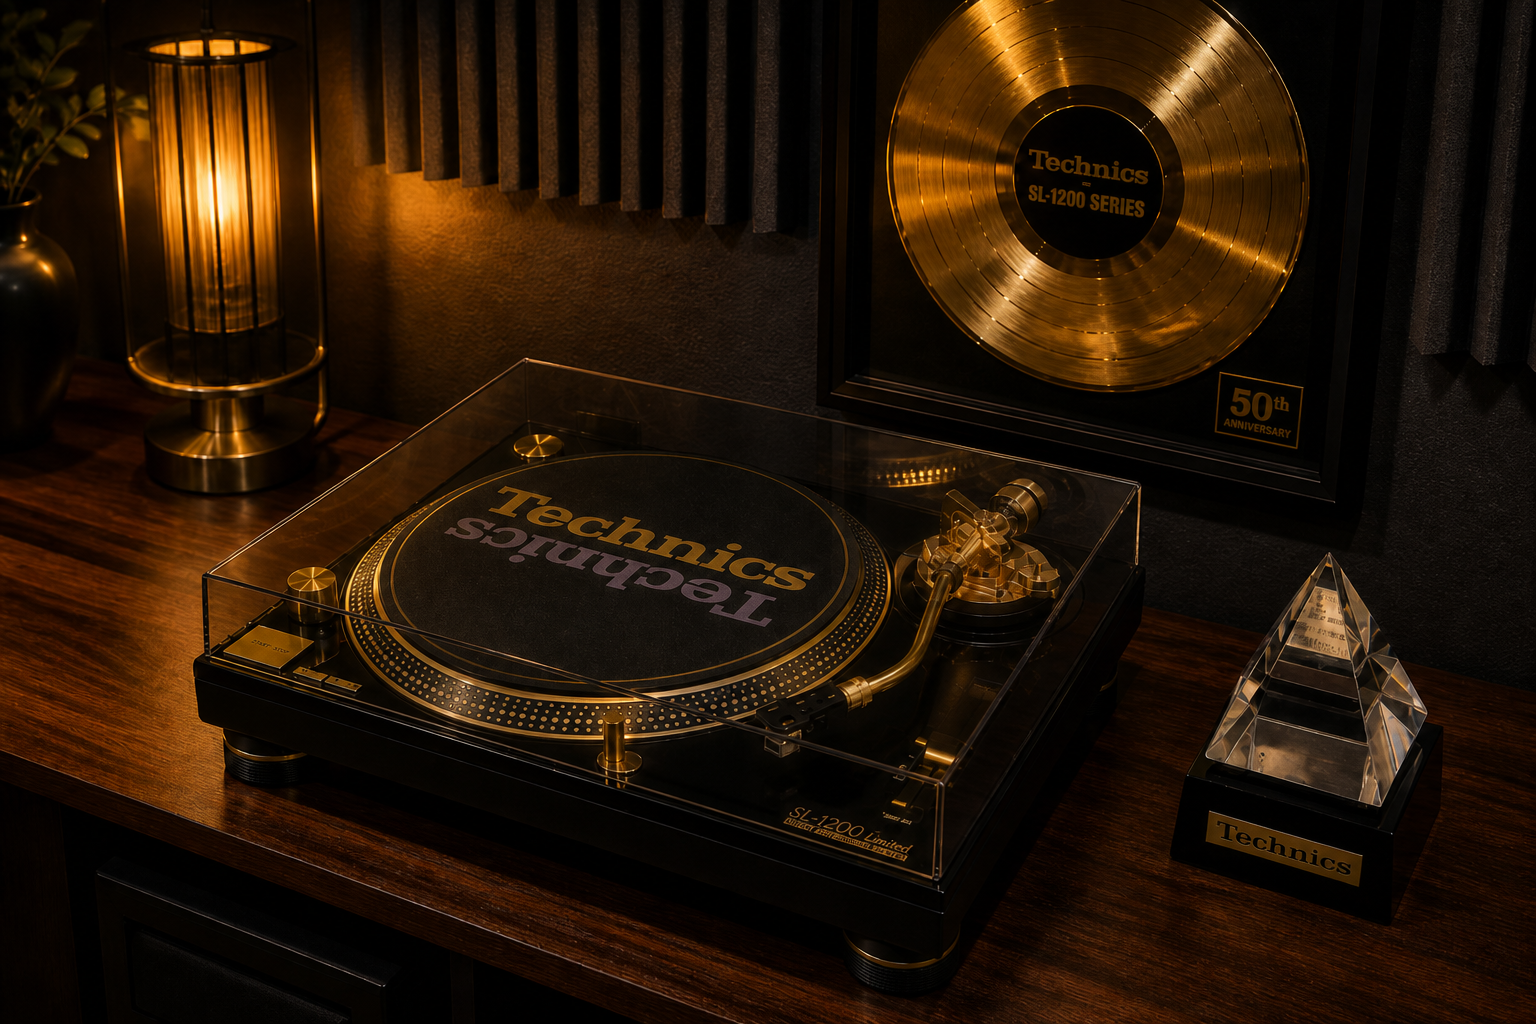
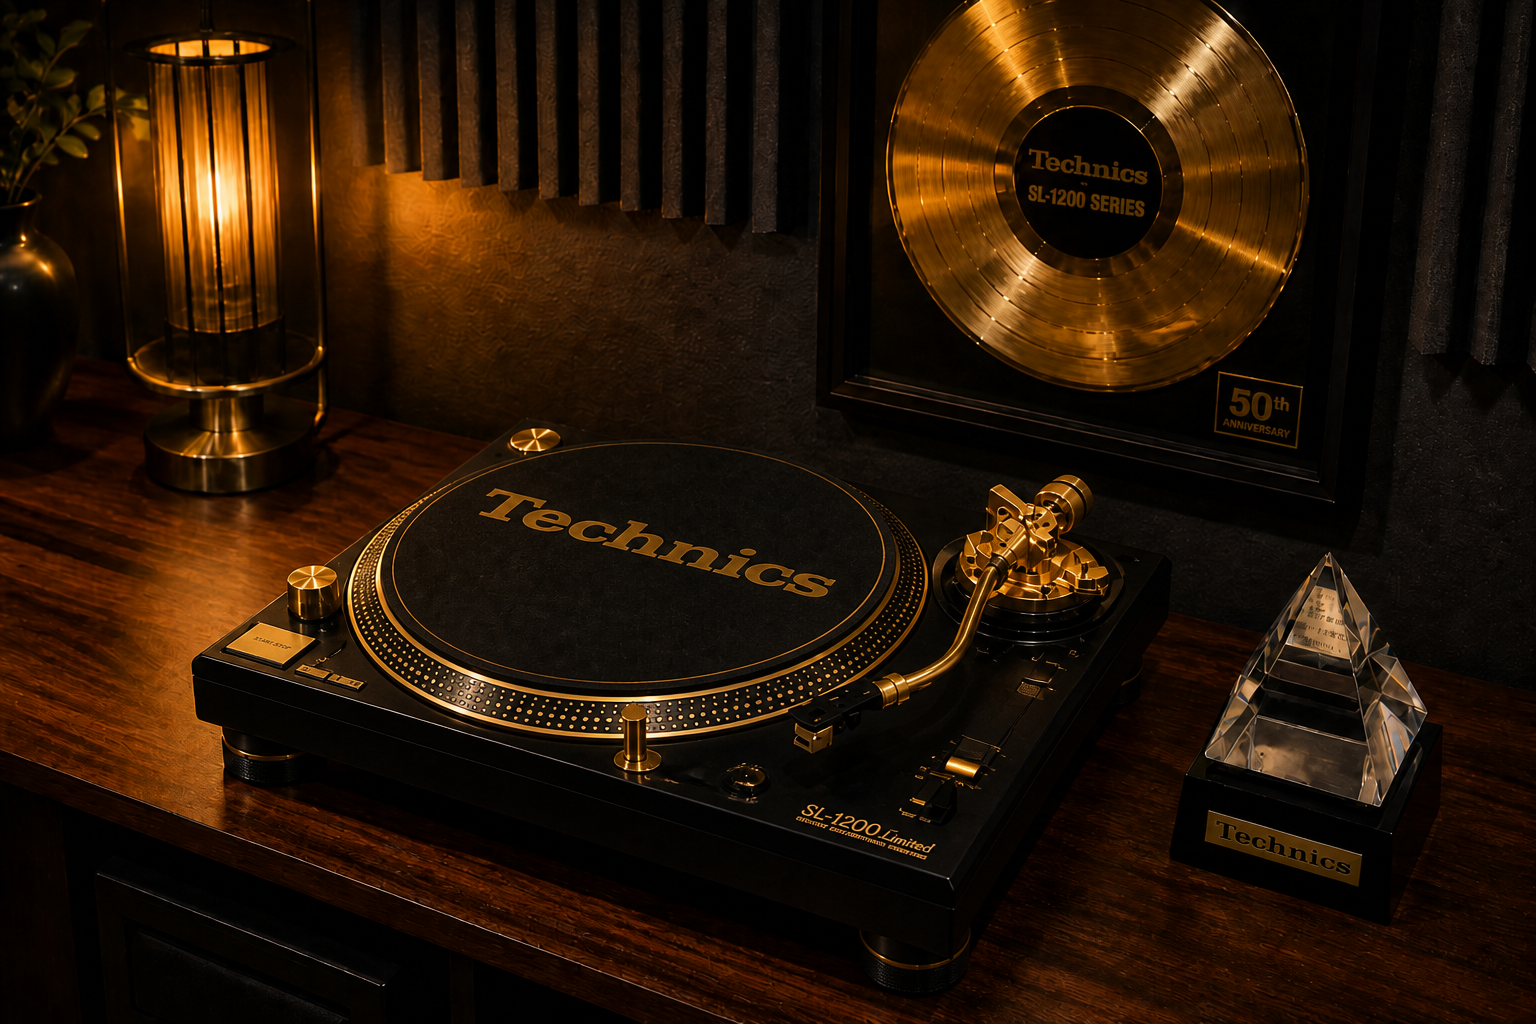
Remove dust cover from Cindy Technics deck so vinyl sits on platter.
Open-platter deck photo plus retuned overlay position/perspective.

diff --git a/jukebox/static/style.css b/jukebox/static/style.css
@@ -123,12 +123,12 @@ body {
 /* Live spinning disc — centred on the Technics platter, matched to camera angle */
 .platter-live {
   position: absolute;
-  left: 56.5%;
-  top: 53.5%;
-  width: 31%;
+  left: 48.8%;
+  top: 53.8%;
+  width: 34%;
   aspect-ratio: 1;
   border-radius: 50%;
-  transform: translate(-50%, -50%) rotateX(56deg) rotateZ(-1deg);
+  transform: translate(-50%, -50%) rotateX(48deg) rotateZ(-2deg);
   transform-style: preserve-3d;
   background:
     repeating-radial-gradient(circle at center,
@@ -145,8 +145,8 @@ body {
   animation: platter-spin 3.1s linear infinite;
 }
 @keyframes platter-spin {
-  from { transform: translate(-50%, -50%) rotateX(56deg) rotateZ(-1deg); }
-  to { transform: translate(-50%, -50%) rotateX(56deg) rotateZ(359deg); }
+  from { transform: translate(-50%, -50%) rotateX(48deg) rotateZ(-2deg); }
+  to { transform: translate(-50%, -50%) rotateX(48deg) rotateZ(358deg); }
 }
 
 .label {

diff --git a/jukebox/static/index.html b/jukebox/static/index.html
@@ -7,7 +7,7 @@
   <link rel="preconnect" href="https://fonts.googleapis.com">
   <link rel="preconnect" href="https://fonts.gstatic.com" crossorigin>
   <link href="https://fonts.googleapis.com/css2?family=Bebas+Neue&family=Libre+Baskerville:ital,wght@0,400;0,700;1,400&family=Source+Sans+3:wght@400;600&display=swap" rel="stylesheet">
-  <link rel="stylesheet" href="/static/style.css?v=4">
+  <link rel="stylesheet" href="/static/style.css?v=5">
 </head>
 <body>
   <div class="lamp" aria-hidden="true"></div>
@@ -85,6 +85,6 @@
   </footer>
 
   <audio id="audio" preload="none"></audio>
-  <script src="/static/app.js?v=3"></script>
+  <script src="/static/app.js?v=5"></script>
 </body>
 </html>
